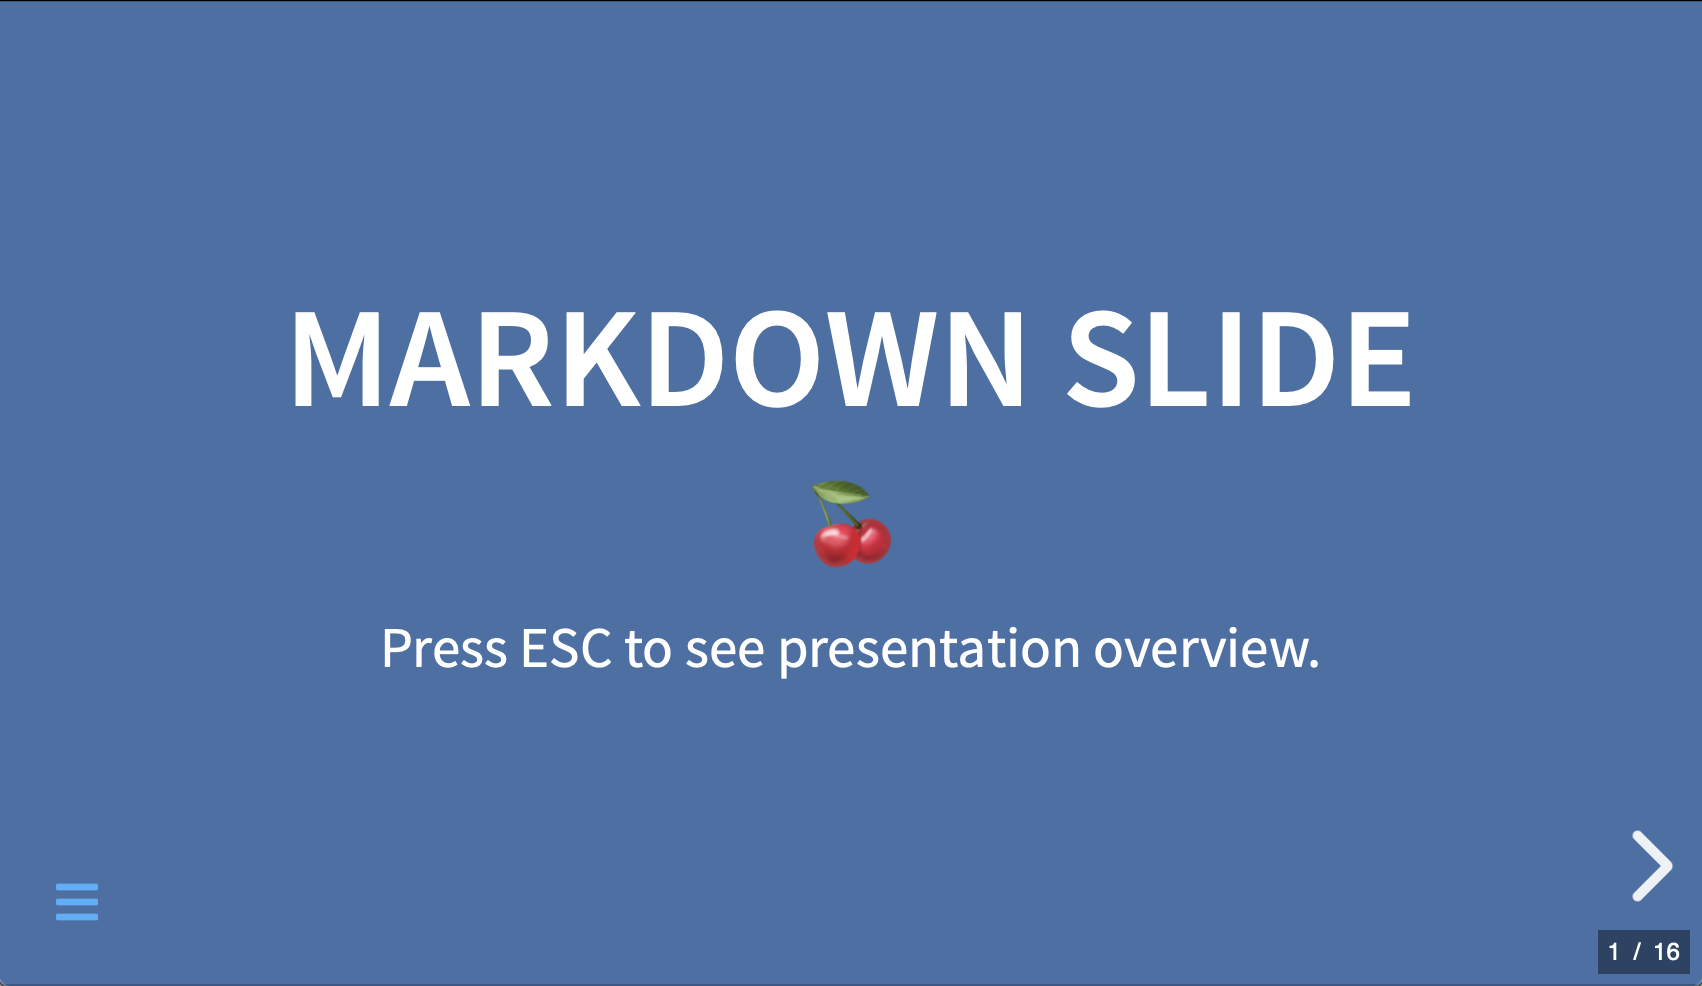
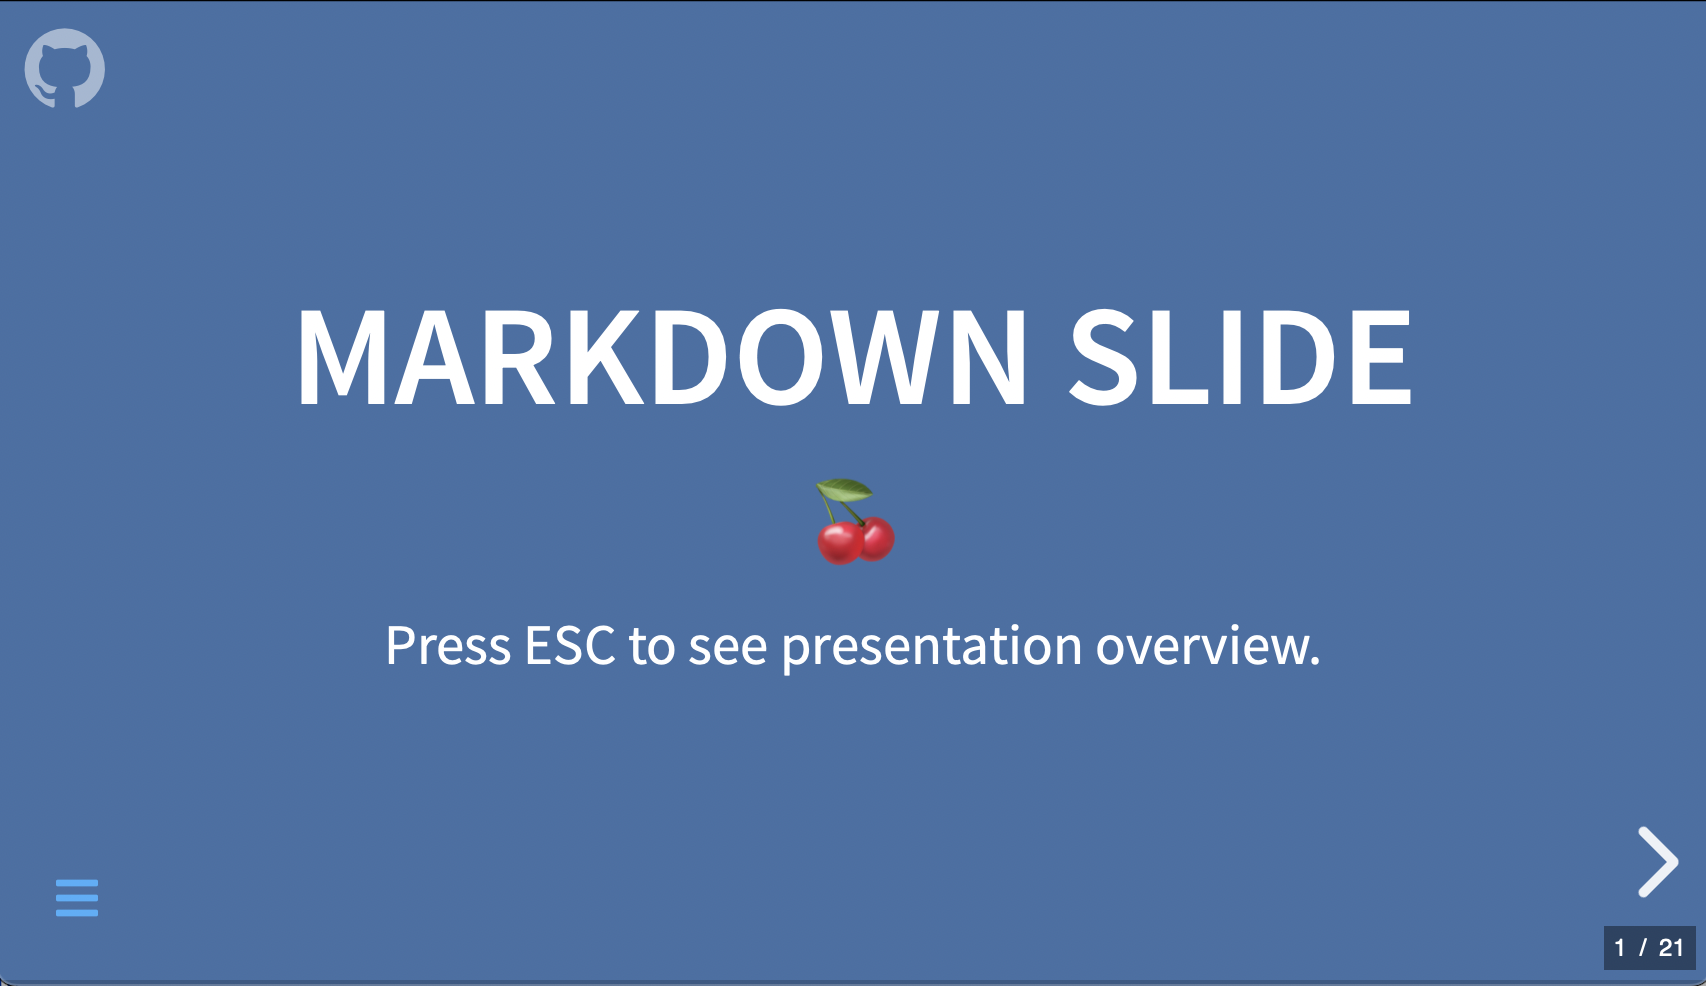
Add githubCorner support

diff --git a/kslides-core/src/main/kotlin/com/kslides/Page.kt b/kslides-core/src/main/kotlin/com/kslides/Page.kt
@@ -6,19 +6,13 @@ import kotlinx.html.dom.*
 
 internal object Page {
 
-  fun generatePage(p: Presentation, prefix: String = "/"): String {
+  fun generatePage(p: Presentation,  prefix: String = "/"): String {
     val document =
       document {
-        PresentationConfig()
-          .apply {
-            merge(p.kslides.globalConfig)
-            merge(p.presentationConfig)
-          }.also { config ->
-            append.html {
-              generateHead(p, config, prefix.ensureSuffix("/"))
-              generateBody(p, config, prefix.ensureSuffix("/"))
-            }
-          }
+        append.html {
+          generateHead(p,  prefix.ensureSuffix("/"))
+          generateBody(p,  prefix.ensureSuffix("/"))
+        }
       }
 
     // Protect characters inside markdown blocks that get escaped by HTMLStreamBuilder
@@ -43,7 +37,7 @@ internal object Page {
     return document.serialize()
   }
 
-  fun HTML.generateHead(p: Presentation, config: PresentationConfig, srcPrefix: String) {
+  fun HTML.generateHead(p: Presentation,  srcPrefix: String) {
     head {
       meta { charset = "utf-8" }
       meta { name = "apple-mobile-web-app-capable"; content = "yes" }
@@ -53,33 +47,25 @@ internal object Page {
         content = "width=device-width, initial-scale=1.0, maximum-scale=1.0, user-scalable=no"
       }
 
-      if (config.title.isNotEmpty())
-        title { +config.title }
+      if (p.finalConfig.title.isNotEmpty())
+        title { +p.finalConfig.title }
 
-      if (config.gaPropertyId.isNotEmpty()) {
+      if (p.finalConfig.gaPropertyId.isNotEmpty()) {
         script { async = true; src = "https://www.googletagmanager.com/gtag/js?id=G-Z6YBNZS12K" }
         script {
           rawHtml(
             """
-          window.dataLayer = window.dataLayer || [];
-          function gtag(){dataLayer.push(arguments);}
-          gtag('js', new Date()); 
-          gtag('config', '${config.gaPropertyId}');
-          """
+            window.dataLayer = window.dataLayer || [];
+            function gtag(){dataLayer.push(arguments);}
+            gtag('js', new Date()); 
+            gtag('config', '${p.finalConfig.gaPropertyId}');
+            """
           )
         }
       }
 
-      // Css Files
-      p.cssFiles += CssFile("dist/theme/${config.theme.name.toLower()}.css", "theme")
-      p.cssFiles += CssFile("plugin/highlight/${config.highlight.name.toLower()}.css", "highlight-theme")
-
-      if (config.enableCodeCopy)
-        p.cssFiles += CssFile("plugin/copycode/copycode.css")
-
       p.cssFiles.forEach {
-        link {
-          rel = "stylesheet"
+        link(rel = "stylesheet") {
           href = if (it.filename.startsWith("http")) it.filename else "$srcPrefix${it.filename}"
           if (it.id.isNotEmpty())
             id = it.id
@@ -87,8 +73,7 @@ internal object Page {
       }
 
       if (p.css.isNotEmpty()) {
-        style {
-          type = "text/css"
+        style("text/css") {
           media = "screen"
           rawHtml(p.css.prependIndent("\t\t"))
         }
@@ -96,62 +81,27 @@ internal object Page {
     }
   }
 
-  fun HTML.generateBody(p: Presentation, config: PresentationConfig, srcPrefix: String) {
+  fun HTML.generateBody(p: Presentation,  srcPrefix: String) {
     body {
       div("reveal") {
-//        a {
-//          id = "github-corner"
-//          href = "https://github.com/Martinomagnifico/reveal.js-appearance"
-//          target = "blank"
-//          title = "View source on Github"
-//          svg {
-//            attributes["viewBox"] = "0 0 55 55"
-//          }
-//          rawHtml(
-//            """
-//                    <svg xmlns="http://www.w3.org/2000/svg" viewBox="0 0 55 55">
-//            <path fill="currentColor"
-//                  d="M27.5 11.2a16.3 16.3 0 0 0-5.1 31.7c.8.2 1.1-.3 1.1-.7v-2.8c-4.5 1-5.5-2.2-5.5-2.2-.7-1.9-1.8-2.4-1.8-2.4-1.5-1 .1-1 .1-1 1.6.1 2.5 1.7 2.5 1.7 1.5 2.5 3.8 1.8 4.7 1.4.2-1 .6-1.8 1-2.2-3.5-.4-7.3-1.8-7.3-8 0-1.8.6-3.3 1.6-4.4-.1-.5-.7-2.1.2-4.4 0 0 1.4-.4 4.5 1.7a15.6 15.6 0 0 1 8.1 0c3.1-2 4.5-1.7 4.5-1.7.9 2.3.3 4 .2 4.4 1 1 1.6 2.6 1.6 4.3 0 6.3-3.8 7.7-7.4 8 .6.6 1.1 1.6 1.1 3v4.6c0 .4.3.9 1.1.7a16.3 16.3 0 0 0-5.2-31.7"></path>
-//        </svg>
-//          """.trimIndent()
-//          )
-//        }
+        if (p.finalConfig.githubCornerHref.isNotEmpty()) {
+          a(p.finalConfig.githubCornerHref, "blank", classes = "github-corner") {
+            title = "View source on Github"
+            rawHtml(
+              """
+            <svg xmlns="http://www.w3.org/2000/svg" viewBox="0 0 55 55">
+              <path fill="currentColor" d="M27.5 11.2a16.3 16.3 0 0 0-5.1 31.7c.8.2 1.1-.3 1.1-.7v-2.8c-4.5 1-5.5-2.2-5.5-2.2-.7-1.9-1.8-2.4-1.8-2.4-1.5-1 .1-1 .1-1 1.6.1 2.5 1.7 2.5 1.7 1.5 2.5 3.8 1.8 4.7 1.4.2-1 .6-1.8 1-2.2-3.5-.4-7.3-1.8-7.3-8 0-1.8.6-3.3 1.6-4.4-.1-.5-.7-2.1.2-4.4 0 0 1.4-.4 4.5 1.7a15.6 15.6 0 0 1 8.1 0c3.1-2 4.5-1.7 4.5-1.7.9 2.3.3 4 .2 4.4 1 1 1.6 2.6 1.6 4.3 0 6.3-3.8 7.7-7.4 8 .6.6 1.1 1.6 1.1 3v4.6c0 .4.3.9 1.1.7a16.3 16.3 0 0 0-5.2-31.7">
+              </path>
+            </svg>
+          """
+            )
+          }
+        }
 
         div("slides") {
           p.slides.forEach { slide -> slide.content(this, slide) }
         }
       }
-
-      if (config.enableSpeakerNotes)
-        p.jsFiles += JsFile("plugin/notes/notes.js")
-
-      if (config.enableZoom)
-        p.jsFiles += JsFile("plugin/zoom/zoom.js")
-
-      if (config.enableSearch)
-        p.jsFiles += JsFile("plugin/search/search.js")
-
-      if (config.enableMarkdown)
-        p.jsFiles += JsFile("plugin/markdown/markdown.js")
-
-      if (config.enableHighlight)
-        p.jsFiles += JsFile("plugin/highlight/highlight.js")
-
-      if (config.enableMathKatex || config.enableMathJax2 || config.enableMathJax3)
-        p.jsFiles += JsFile("plugin/math/math.js")
-
-      if (config.enableCodeCopy) {
-        p.jsFiles += JsFile("plugin/copycode/copycode.js")
-        // Required for copycode.js
-        p.jsFiles += JsFile("https://cdnjs.cloudflare.com/ajax/libs/clipboard.js/2.0.6/clipboard.min.js")
-      }
-
-      if (config.enableMenu)
-        p.jsFiles += JsFile("plugin/menu/menu.js")
-
-//      if (config.toolbar) {
-//        p.jsFiles += "plugin/toolbar/toolbar.js"
-//      }
 
       rawHtml("\n\t\n")
       p.jsFiles.forEach { jsFile ->
@@ -162,7 +112,7 @@ internal object Page {
 
       rawHtml("\n\t")
       script {
-        rawHtml("\n\t\tReveal.initialize({\n${p.toJs(config, srcPrefix)}\t\t});\n\n")
+        rawHtml("\n\t\tReveal.initialize({\n${p.toJs(p.finalConfig, srcPrefix)}\t\t});\n\n")
       }
     }
   }

diff --git a/kslides-core/src/main/kotlin/com/kslides/Presentation.kt b/kslides-core/src/main/kotlin/com/kslides/Presentation.kt
@@ -19,9 +19,58 @@ fun kslides(block: KSlides.() -> Unit) {
 
       presentationBlocks.forEach {
         Presentation(this)
-          .also { presentation ->
-            it.invoke(presentation)
-            presentation.validatePath()
+          .also { p ->
+            it.invoke(p)
+            p.validatePath()
+
+            p.finalConfig = PresentationConfig()
+              .apply {
+                merge(p.kslides.globalConfig)
+                merge(p.presentationConfig)
+              }
+
+            p.finalConfig.also { config ->
+              // Css Files
+              p.cssFiles += CssFile("dist/theme/${config.theme.name.toLower()}.css", "theme")
+              p.cssFiles += CssFile("plugin/highlight/${config.highlight.name.toLower()}.css", "highlight-theme")
+
+              if (config.enableCodeCopy)
+                p.cssFiles += CssFile("plugin/copycode/copycode.css")
+
+              if (config.githubCornerHref.isNotEmpty())
+                p.cssFiles += CssFile("plugin/githubCorner/githubCorner.css")
+
+              if (config.enableSpeakerNotes)
+                p.jsFiles += JsFile("plugin/notes/notes.js")
+
+              if (config.enableZoom)
+                p.jsFiles += JsFile("plugin/zoom/zoom.js")
+
+              if (config.enableSearch)
+                p.jsFiles += JsFile("plugin/search/search.js")
+
+              if (config.enableMarkdown)
+                p.jsFiles += JsFile("plugin/markdown/markdown.js")
+
+              if (config.enableHighlight)
+                p.jsFiles += JsFile("plugin/highlight/highlight.js")
+
+              if (config.enableMathKatex || config.enableMathJax2 || config.enableMathJax3)
+                p.jsFiles += JsFile("plugin/math/math.js")
+
+              if (config.enableCodeCopy) {
+                p.jsFiles += JsFile("plugin/copycode/copycode.js")
+                // Required for copycode.js
+                p.jsFiles += JsFile("https://cdnjs.cloudflare.com/ajax/libs/clipboard.js/2.0.6/clipboard.min.js")
+              }
+
+              if (config.enableMenu)
+                p.jsFiles += JsFile("plugin/menu/menu.js")
+
+              // if (config.toolbar) {
+              //   p.jsFiles += "plugin/toolbar/toolbar.js"
+              // }
+            }
           }
       }
 
@@ -79,6 +128,7 @@ class Presentation(val kslides: KSlides) {
       CssFile("dist/reset.css"),
     )
   internal val presentationConfig = PresentationConfig()
+  internal lateinit var finalConfig: PresentationConfig
   internal val slides = mutableListOf<Slide>()
 
   var path = "/"

diff --git a/docs/index.html b/docs/index.html
@@ -1,7 +1,7 @@
 <!DOCTYPE html>
 <html>
   <head>
-    <META content="text/html; charset=UTF-8" http-equiv="Content-Type">
+    <META http-equiv="Content-Type" content="text/html; charset=UTF-8">
     <meta charset="utf-8">
     <meta content="yes" name="apple-mobile-web-app-capable">
     <meta content="black-translucent" name="apple-mobile-web-app-status-bar-style">
@@ -11,9 +11,19 @@
     <link href="revealjs/dist/theme/black.css" id="theme" rel="stylesheet">
     <link href="revealjs/plugin/highlight/monokai.css" id="highlight-theme" rel="stylesheet">
     <link href="revealjs/plugin/copycode/copycode.css" rel="stylesheet">
+    <link href="revealjs/plugin/githubCorner/githubCorner.css" rel="stylesheet">
   </head>
   <body>
     <div class="reveal">
+      <a class="github-corner" href="https://github.com/pambrose/kslides/blob/master/kslides-examples/src/main/kotlin/Readme.kt" target="blank" title="View source on Github">
+            
+        <svg xmlns="http://www.w3.org/2000/svg" viewBox="0 0 55 55">
+                        
+          <path d="M27.5 11.2a16.3 16.3 0 0 0-5.1 31.7c.8.2 1.1-.3 1.1-.7v-2.8c-4.5 1-5.5-2.2-5.5-2.2-.7-1.9-1.8-2.4-1.8-2.4-1.5-1 .1-1 .1-1 1.6.1 2.5 1.7 2.5 1.7 1.5 2.5 3.8 1.8 4.7 1.4.2-1 .6-1.8 1-2.2-3.5-.4-7.3-1.8-7.3-8 0-1.8.6-3.3 1.6-4.4-.1-.5-.7-2.1.2-4.4 0 0 1.4-.4 4.5 1.7a15.6 15.6 0 0 1 8.1 0c3.1-2 4.5-1.7 4.5-1.7.9 2.3.3 4 .2 4.4 1 1 1.6 2.6 1.6 4.3 0 6.3-3.8 7.7-7.4 8 .6.6 1.1 1.6 1.1 3v4.6c0 .4.3.9 1.1.7a16.3 16.3 0 0 0-5.2-31.7" fill="currentColor">
+              </path>
+                      
+        </svg>
+                  </a>
       <div class="slides">
         <section data-background-color="#4370A5" data-markdown="" data-transition="zoom" data-transition-speed="fast">
           <script type="text/template">
@@ -323,7 +333,7 @@ fun main() {
         content {
           """
           ## Presentation Description    
-          ```kotlin [9-12|16-24|26-39|1-132]
+          ```kotlin []
           ${includeUrl("${githubPrefix("pambrose", "kslides", "kslides-examples")}/src/main/kotlin/Readme.kt")}
           ```
           """

diff --git a/kslides-core/src/main/kotlin/com/kslides/PresentationConfig.kt b/kslides-core/src/main/kotlin/com/kslides/PresentationConfig.kt
@@ -30,6 +30,7 @@ class PresentationConfig(init: Boolean = false) : AbstractConfig() {
   var enableMathJax3 by ConfigProperty<Boolean>(managedValues)
   var enableCodeCopy by ConfigProperty<Boolean>(managedValues)
   var enableMenu by ConfigProperty<Boolean>(managedValues)
+  var githubCornerHref by ConfigProperty<String>(managedValues)
   var gaPropertyId by ConfigProperty<String>(managedValues)
 
   // Controls automatic progression to the next slide
@@ -66,6 +67,8 @@ class PresentationConfig(init: Boolean = false) : AbstractConfig() {
       enableMathJax3 = false
       enableCodeCopy = true
       enableMenu = true
+
+      githubCornerHref = ""
       gaPropertyId = ""
 
       autoSlide = 0

diff --git a/kslides-examples/src/main/kotlin/Readme.kt b/kslides-examples/src/main/kotlin/Readme.kt
@@ -13,6 +13,7 @@ fun main() {
     presentation {
 
       presentationConfig {
+        githubCornerHref = "https://github.com/pambrose/kslides/blob/master/kslides-examples/src/main/kotlin/Readme.kt"
         slideNumber = "c/t"
         history = true
         transition = Transition.SLIDE
@@ -71,7 +72,6 @@ fun main() {
           """
         }
       }
-
 
       markdownSlide {
         slideConfig {

diff --git a/docs/revealjs/plugin/githubCorner/githubCorner.css b/docs/revealjs/plugin/githubCorner/githubCorner.css
@@ -1,0 +1,11 @@
+a.github-corner {
+    position: absolute;
+    z-index: 1;
+    width: clamp(50px, 8vmax, 80px);
+    line-height: 0;
+    color: rgba(255, 255, 255, 0.5);
+}
+
+a.github-corner:hover {
+    color: white;
+}

diff --git a/kslides-core/src/main/resources/plugin/githubCorner/githubCorner.css b/kslides-core/src/main/resources/plugin/githubCorner/githubCorner.css
@@ -1,0 +1,11 @@
+a.github-corner {
+    position: absolute;
+    z-index: 1;
+    width: clamp(50px, 8vmax, 80px);
+    line-height: 0;
+    color: rgba(255, 255, 255, 0.5);
+}
+
+a.github-corner:hover {
+    color: white;
+}

diff --git a/README.md b/README.md
@@ -1,12 +1,13 @@
 # kslides
 
-[![Release](https://jitpack.io/v/pambrose/kslides.svg)](https://jitpack.io/#pambrose/kslides)
+[![Codacy Badge](https://app.codacy.com/project/badge/Grade/701fc37a847042d2ae2cd6e80075ff6f)](https://www.codacy.com/gh/pambrose/kslides/dashboard?amp;utm_medium=referral&amp;utm_content=pambrose/kslides&amp;utm_campaign=Badge_Grade)
 [![Build Status](https://travis-ci.org/pambrose/kslides.svg?branch=master)](https://travis-ci.org/pambrose/kslides)
-[![Codacy Badge](https://app.codacy.com/project/badge/Grade/701fc37a847042d2ae2cd6e80075ff6f)](https://www.codacy.com/gh/pambrose/kslides/dashboard?utm_source=github.com&amp;utm_medium=referral&amp;utm_content=pambrose/kslides&amp;utm_campaign=Badge_Grade)
+[![Release](https://jitpack.io/v/pambrose/kslides.svg)](https://jitpack.io/#pambrose/kslides)
 [![Kotlin](https://img.shields.io/badge/%20language-Kotlin-red.svg)](https://kotlinlang.org/)
 
-**kslides** is a Kotlin DSL wrapper for [reveal.js](https://revealjs.com). It is meant for people who would prefer to
-build presentations with IntelliJ than Powerpoint. It works particularly well for presentations with code and slides
+**kslides** is a Kotlin DSL wrapper for the incredible [reveal.js](https://revealjs.com) presentation framework. 
+It is meant for people who prefer working in an IDE rather than PowerPoint. 
+It works particularly well for presentations with code snippets and slides
 authored in Markdown/HTML.
 
 [![Screenshot](https://pambrose.github.io/kslides/kslides-screenshot.png)](https://pambrose.github.io/kslides/)
